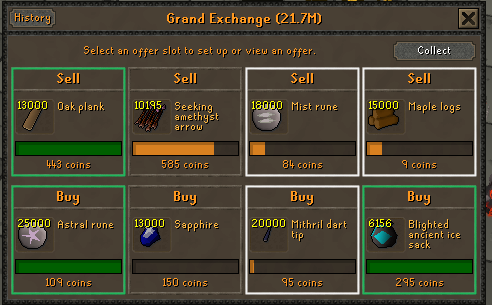
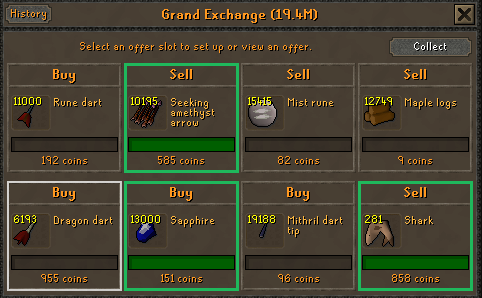
README: slot grid and GE window with the heavier green box
The player's own capture with 0.7.10: three done (Seeking amethyst arrow
and Shark sold, Sapphire bought) in the thicker green, Dragon dart in the
softened white, four working with no box. Cropped to the same framing as
the pictures they replace.

Claude-Session: https://claude.ai/code/session_01CrbbnpxzzXajkmFNwfAgTw

diff --git a/README.md b/README.md
@@ -67,7 +67,7 @@ RuneLite sidebar.**
 
 ### Offer slots
 
-![The sidebar's GE slot grid, all eight slots busy. Boxed in green, ready to collect: Oak plank, sold, with a full blue bar, and Astral rune and Blighted ancient ice sack, bought, with full gold bars. Boxed in white, needing a new price: Mist rune and Maple logs, sells, and Mithril dart tip, a buy. Seeking amethyst arrow, a sell, and Sapphire, a buy, are still working, with no box.](./docs/screenshots/slots.png)
+![The sidebar's GE slot grid, all eight slots busy. Boxed in green, ready to collect: Seeking amethyst arrow and Shark, sold, with full blue bars, and Sapphire, bought, with a full gold bar. Boxed in white, needing a new price: Dragon dart, a buy. Rune dart, Mist rune, Maple logs and Mithril dart tip are still working, with no box.](./docs/screenshots/slots.png)
 
 - Your 8 GE slots in the sidebar, each with a bar that fills in your buy or
   sell colour, so a finished buy and a finished sale look different. A slot
@@ -83,7 +83,7 @@ RuneLite sidebar.**
 
 ![Hovering a GE slot in the sidebar. The tooltip reads: Blood rune. Raise to 300 gp, or cancel (yours: 290). Bidding 290 gp each. Bought 0 of 4,000 (0%). To collect: 290 gp. Profit if it flips: +48K gp. click: inspect, right-click: price it yourself.](./docs/screenshots/slot-tooltip.png)
 
-![The Grand Exchange window with the same eight offers and PocketGE's outlines: green round the three that are done (Oak plank sold, Astral rune and Blighted ancient ice sack bought), white round the three that need a new price (Mist rune, Maple logs and Mithril dart tip), and none round the two still working (Seeking amethyst arrow and Sapphire).](./docs/screenshots/ge-window.png)
+![The Grand Exchange window with the same eight offers and PocketGE's outlines: green round the three that are done (Seeking amethyst arrow and Shark sold, Sapphire bought), white round Dragon dart, which needs a new price, and none round the four still working (Rune dart, Mist rune, Maple logs and Mithril dart tip).](./docs/screenshots/ge-window.png)
 
 - The same boxes outline those offers in the GE window.
 - A white ring marks the Buy or Sell button of a free slot, where the card's

diff --git a/docs/screenshots/README.md b/docs/screenshots/README.md
@@ -7,8 +7,9 @@ The README's pictures — `offer-screen.png`, `watchlist.png`,
 when the panel changes and have to be retaken; the last set went when the
 slot colours and the default theme changed under them, and the slot grid and
 GE window went again when their boxes did (only the slots that need you are
-boxed now, in white, and busy slots sit on a grey tile), and once more for
-a finished slot's bar keeping its buy or sell colour (0.7.9).
+boxed now, in white, and busy slots sit on a grey tile), once more for a
+finished slot's bar keeping its buy or sell colour (0.7.9), and again for
+the green box drawn heavier than the white (0.7.10).
 `slot-tooltip.png` still shows the old grey box under its tooltip.
 
 `Screenshot.java.txt` is the other way to get one: it lays out the real
